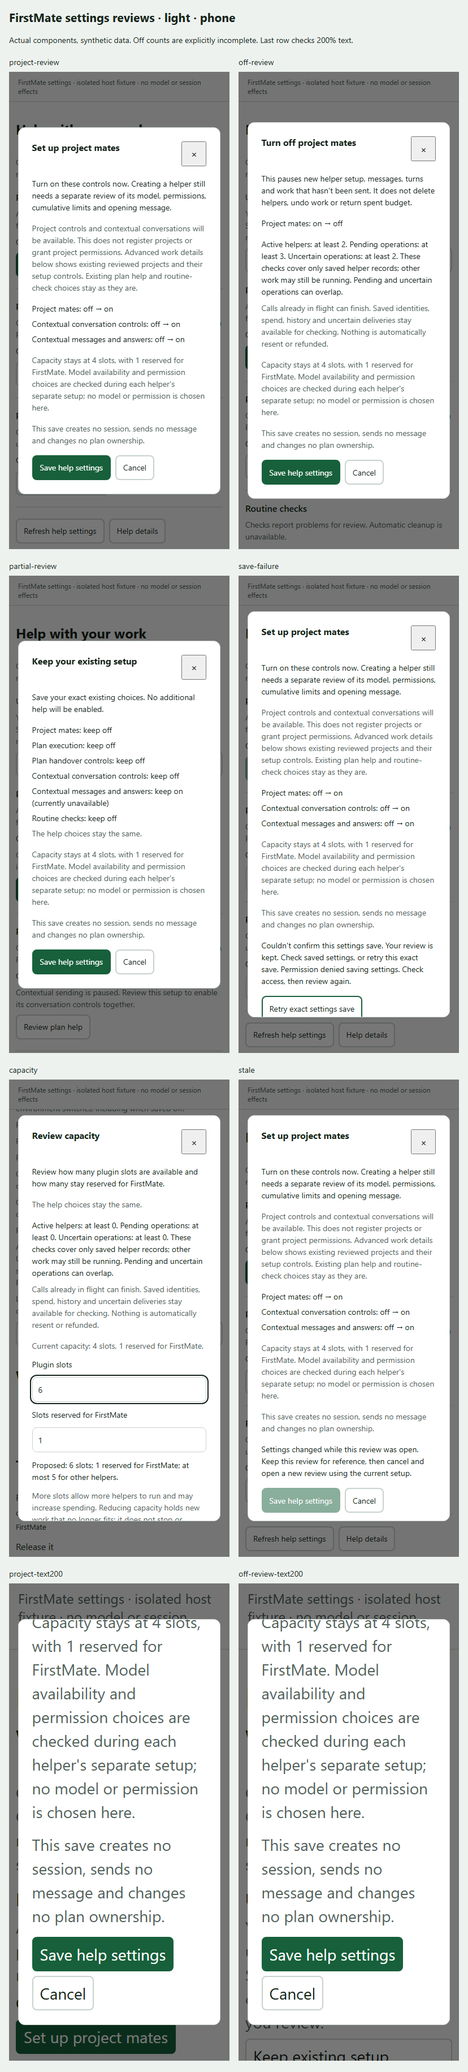
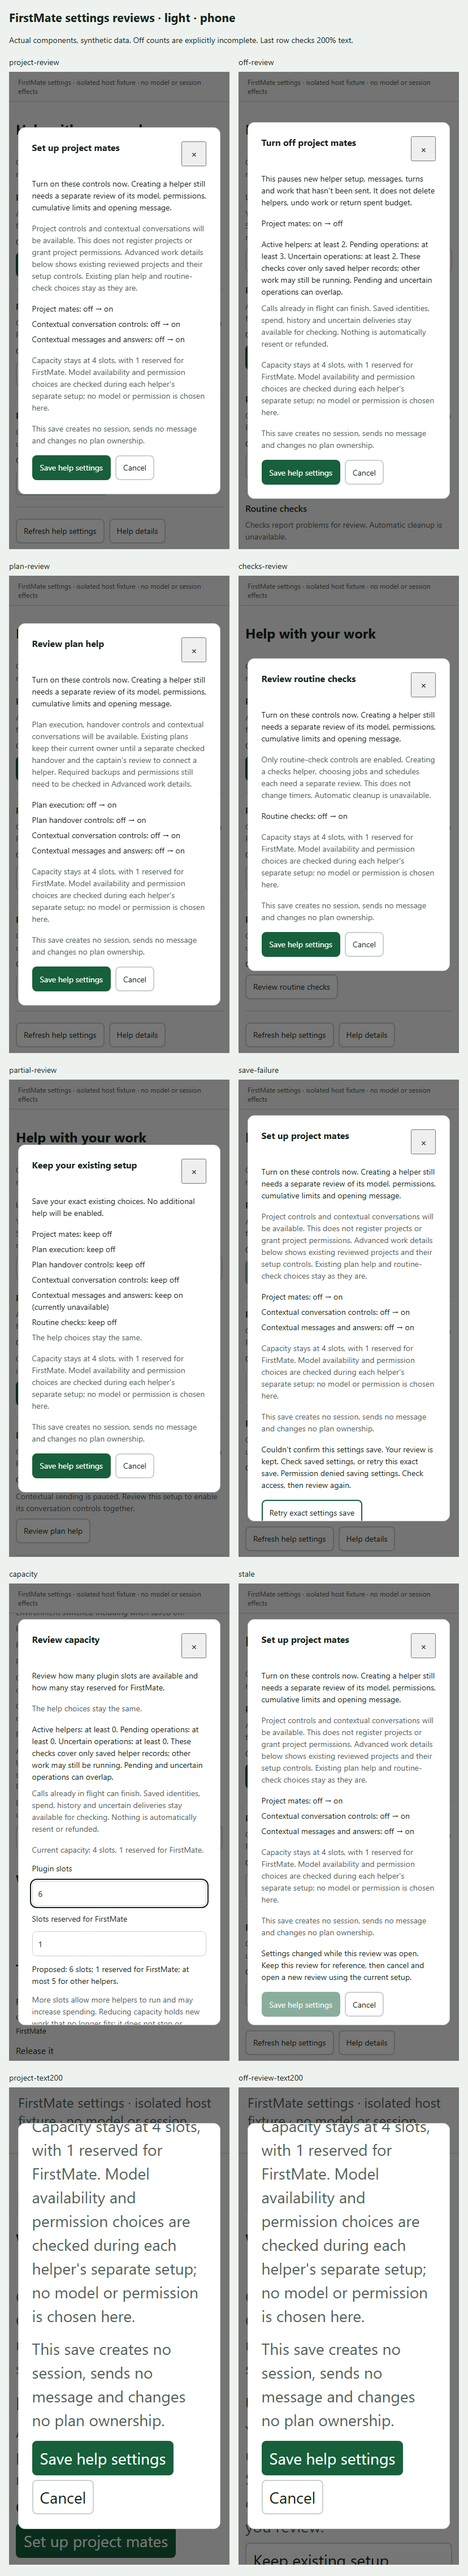
test: cover each help review and dependency selection

diff --git a/client/help-settings.tsx b/client/help-settings.tsx
@@ -109,7 +109,7 @@ export function HelpSettings({ theme, home, hostId, online = true }: { theme: Pl
     </View> : null}
     {snapshot?.state === "held" ? <Text accessibilityRole="alert" style={text}>Help settings couldn't be checked. Refresh settings; if this continues, review Advanced work details before changing anything.</Text> : null}
     {snapshot && !snapshot.runtimeEnforced ? <Text style={text}>This host can't apply help changes yet. Update FirstMate on this host, then refresh settings.</Text> : null}
-    {capacityRepair ? <HelpButton theme={theme} label="Review capacity" onPress={() => begin("capacity")} /> : null}
+    {capacityRepair ? <HelpButton theme={theme} label="Review capacity" disabled={busy || !!review?.request} onPress={() => begin("capacity")} /> : null}
     {snapshot?.state === "ready" && snapshot.runtimeEnforced && !snapshot.writesAvailable ? <Text style={text}>This host can't save help changes right now. Refresh settings before continuing.</Text> : null}
     {notice ? <Text accessibilityLiveRegion="polite" style={text}>{notice}</Text> : null}
     {snapshot?.pause ? <Text style={text}>{snapshot.pause}. Saved history and uncertain deliveries are retained.</Text> : null}

diff --git a/client/help-settings.test.ts b/client/help-settings.test.ts
@@ -58,6 +58,13 @@ it("applies only the reviewed project dependencies, immediately, without a sessi
   expect(text()).toContain("Your settings are saved and applied here."); expect(text()).toContain("Turn off project mates");
 });
 
+it.each(["plans", "checks"] as const)("enables only %s and its reviewed dependencies", async kind => {
+  await mount(); await press(HELP[kind].action); await press("Save help settings");
+  expect(state.set.mock.calls[0]![0].change.requested).toEqual(kind === "plans" ? {
+    ...FEATURES_OFF, planSupervisors: true, scopedActivation: true, scopeUi: true, scopeExecution: true,
+  } : { ...FEATURES_OFF, maintenance: true });
+});
+
 it("preserves all 64 independent pilot combinations until an explicit exact save", () => {
   for (let mask = 0; mask < 64; mask++) {
     const keys = Object.keys(FEATURES_OFF) as (keyof typeof FEATURES_OFF)[];

diff --git a/docs/smooth-pr5.md b/docs/smooth-pr5.md
@@ -79,9 +79,9 @@ and native keyboard/screen-reader matrix remain slice 10 release validation.
 - Typecheck passes.
 - Full local suite: 244 files, 3,410 tests passed; four skipped. The known
   intermittent Windows `server/launch-tool.test.ts` flake did not occur.
-- Focused policy/UI run: 56 tests passed, one skipped; includes 15 new settings
+- Focused policy/UI run: 58 tests passed, one skipped; includes 17 new settings
   behavior tests. Server policy/storage/effect guards are unchanged.
-- `node docs/smooth-pr5/render.mjs`: 64 captures/assertion cases, light/dark,
+- `node docs/smooth-pr5/render.mjs`: 72 captures/assertion cases, light/dark,
   1440×1000 and 390×844; no page exceptions or document overflow. Review controls
   also pass 44×44 target and clipping checks at 200% text. Escape returns focus.
 - The Impeccable mechanical scan found no issues in changed settings components.
